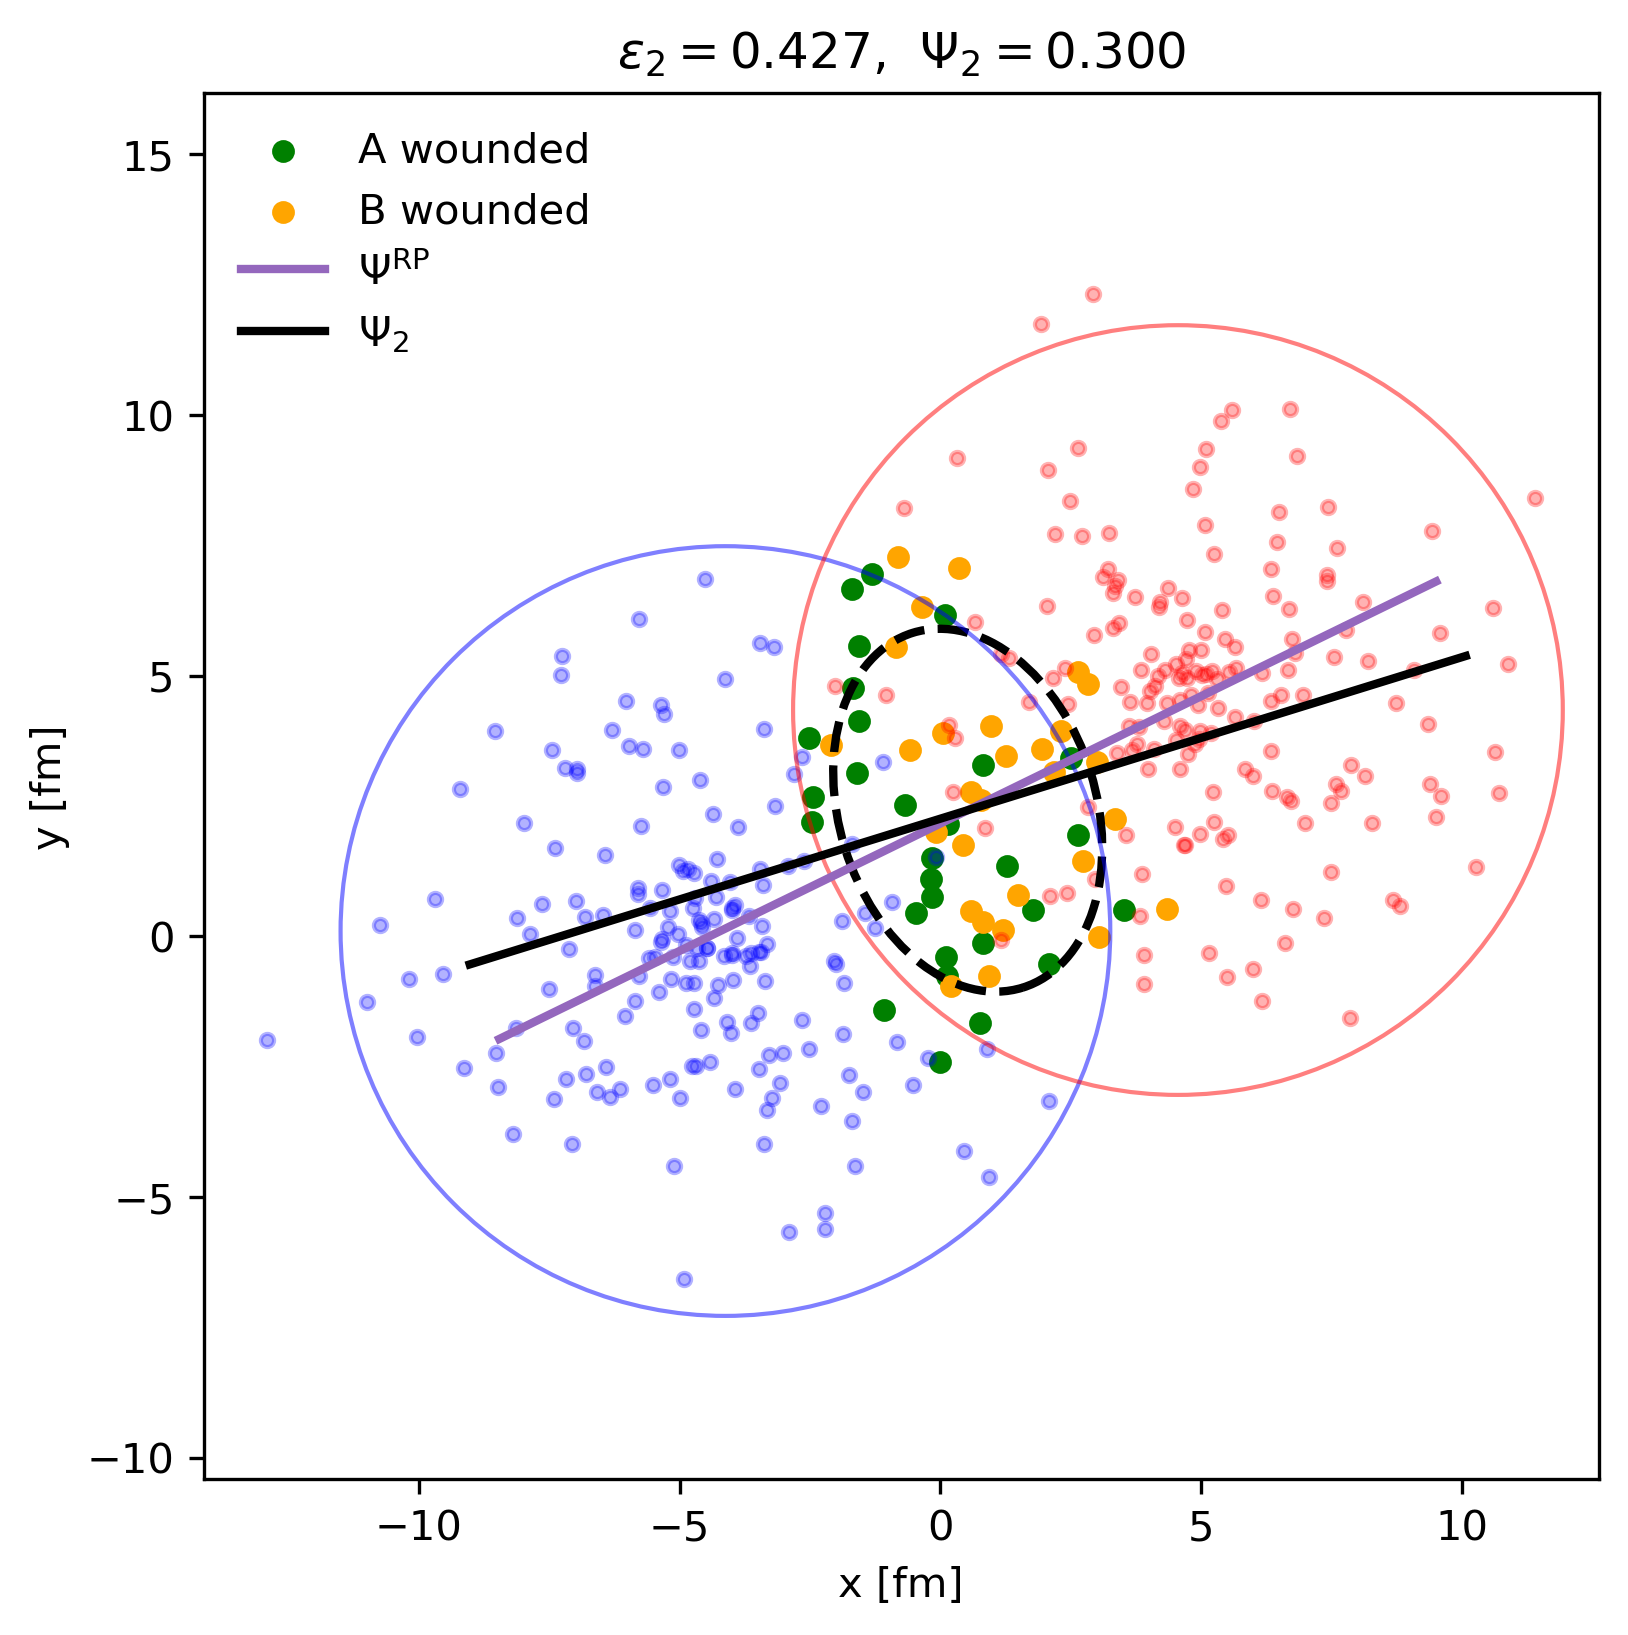
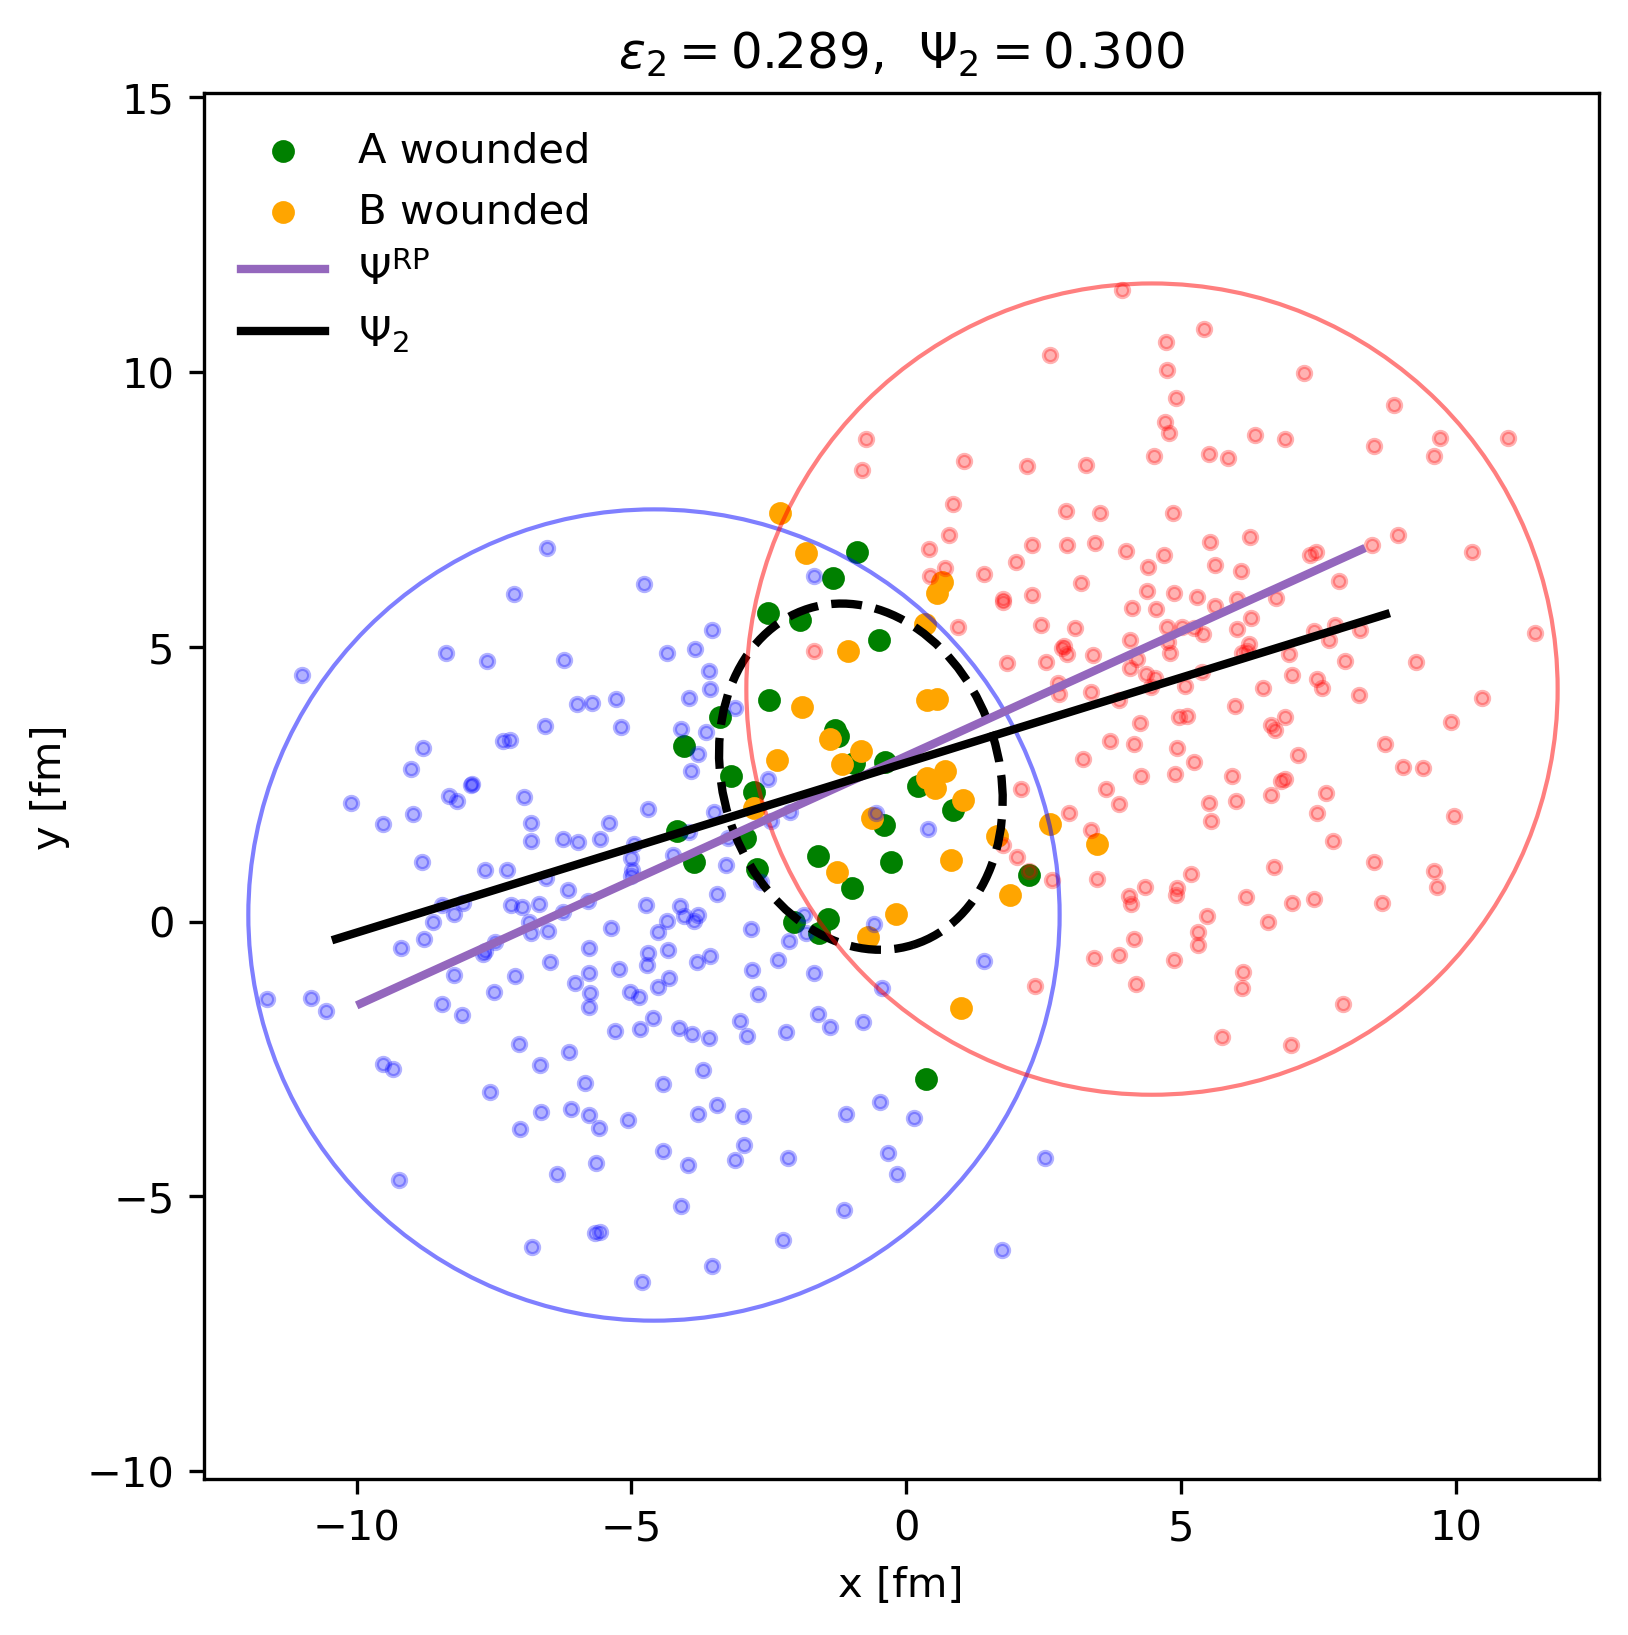
fortran module with f2py. RP/psi2 figure, add the main with fortran or python setting. Makefile for f2py

diff --git a/main.py b/main.py
@@ -1,0 +1,125 @@
+import sys
+
+import numpy as np
+import matplotlib.pyplot as plt
+
+from utils.glauber import sample_woods_saxon, find_collisions, Nuclei, calcPsi2Ecc2
+
+import argparse
+from dataclasses import dataclass, field
+
+
+def plot_res(par, cols, total_ecc2, total_psi2, total_ecc2_std, total_psi2_std):
+
+  f,axs = plt.subplots(1,2, figsize=(14,6))
+  
+  ax = axs[0]
+  ax.errorbar(par.b_array, np.mean(cols, axis=1), yerr=np.std(cols, axis=1), fmt='o-', capsize=5)
+  
+  ax.set_xlabel("Impact parameter b (fm)", fontsize=14)
+  ax.set_ylabel("Number of collisions", fontsize=14)
+  
+  
+  ax = axs[1]
+  
+  ax.errorbar(par.b_array, total_ecc2, yerr=total_ecc2_std, fmt='o-', label=r'Eccentricity $\epsilon_2$')
+  ax.errorbar(par.b_array, total_psi2, yerr=total_psi2_std, fmt='s-', label=r'Participant plane angle $\Psi_2$')
+  ax.set_xlabel("Impact parameter b (fm)", fontsize=14)
+  ax.set_ylabel("Eccentricity / Participant plane angle", fontsize=14)
+  ax.legend(fontsize=12)
+
+
+  plt.show()
+
+
+@dataclass
+class setup:
+  A: int = 206  # nucleon number
+  b_array: np.ndarray = np.arange(0,10,1)
+  b_array: np.ndarray = field(default_factory=lambda: np.arange(0, 10, 1))
+
+  n_events: int = 1
+  save_path: str = "glauber_results.npz"
+
+
+def main_fortran():
+  par = setup()
+
+
+  cols = []
+  total_psi2, total_ecc2 = [], []
+  total_psi2_std = []
+  total_ecc2_std = []
+  for b in par.b_array:
+    bcols = []
+    psi2, ecc2 = [], []
+    for _ in range(par.n_events):
+      sys.stdout.write(f"\r  Event {_+1}/{par.n_events} for b={b:.1f} fm")
+      sys.stdout.flush()
+      nuc1 = Nuclei(par.A)
+      nuc1.sample_fws()
+      nuc2 = Nuclei(par.A)
+      nuc2.sample_fws()
+      
+      nuc1[:,0]-=b/2
+      nuc2[:,0]+=b/2
+      wounded1, wounded2, bc = find_collisions(nuc1, nuc2)
+      bcols.append(np.count_nonzero(wounded1) + np.count_nonzero(wounded2))
+      psi, ecc = calcPsi2Ecc2(nuc1, nuc2, wounded1, wounded2)
+      psi2.append(psi)
+      ecc2.append(ecc)
+    cols.append(bcols)
+    total_psi2.append(np.mean(psi2))
+    total_ecc2.append(np.mean(ecc2))
+    total_psi2_std.append(np.std(psi2))
+    total_ecc2_std.append(np.std(ecc2))
+  
+  cols = np.array(cols)
+  plot_res(par, cols, total_ecc2, total_psi2, total_ecc2_std, total_psi2_std)
+ 
+
+
+def main_py():
+  par = setup()
+    
+  cols = []
+  total_psi2, total_ecc2 = [], []
+  total_psi2_std = []
+  total_ecc2_std = []
+  for b in par.b_array:
+    bcols = []
+    psi2, ecc2 = [], []
+    for _ in range(par.n_events):
+      sys.stdout.write(f"\r  Event {_+1}/{par.n_events} for b={b:.1f} fm")
+      sys.stdout.flush()
+      nuc1 = Nuclei(par.A)
+      nuc1.sample_ws()
+      nuc2 = Nuclei(par.A)
+      nuc2.sample_ws()
+      
+      nuc1[:,0]-=b/2
+      nuc2[:,0]+=b/2
+      wounded1, wounded2, bc = find_collisions(nuc1, nuc2)
+      bcols.append(np.count_nonzero(wounded1) + np.count_nonzero(wounded2))
+      psi, ecc = calcPsi2Ecc2(nuc1, nuc2, wounded1, wounded2)
+      psi2.append(psi)
+      ecc2.append(ecc)
+    cols.append(bcols)
+    total_psi2.append(np.mean(psi2))
+    total_ecc2.append(np.mean(ecc2))
+    total_psi2_std.append(np.std(psi2))
+    total_ecc2_std.append(np.std(ecc2))
+  
+  cols = np.array(cols)
+  plot_res(par, cols, total_ecc2, total_psi2, total_ecc2_std, total_psi2_std)
+  
+if __name__ == "__main__":
+  arg_parser = argparse.ArgumentParser()
+  arg_parser.add_argument('--v', help='run either python or fortran version', choices=['py', 'fortran'], default='py')
+
+  args = arg_parser.parse_args()
+  if args.v == 'py':
+    main_py()
+  elif args.v == 'fortran':
+    main_fortran()
+

diff --git a/utils/glauber.py b/utils/glauber.py
@@ -1,4 +1,5 @@
 import numpy as np
+from utils import fwoodsax
 
 
 def sample_woods_saxon(A, R, a, dmin, V0 = 1.0): # we assume V0 = 1
@@ -63,6 +64,12 @@ class Nuclei:
 
   def sample_ws(self):
     self.coords = sample_woods_saxon(self.A, self.R, self.a, self.dmin)
+    tmp = np.array(self.coords)
+
+  def sample_fws(self):
+    self.coords = np.zeros((self.A, 3), 'f', order='F')
+    #fwoodsax.sampler.woods_saxon(self.R, self.a, self.dmin, self.coords)
+    fwoodsax.sampler.woods_saxon(self.R, self.a, self.dmin, self.coords, self.A)
 
   def __getitem__(self, index):
     return self.coords[index]
@@ -80,13 +87,12 @@ class Nuclei:
 
 def calcPsi2Ecc2(nuc1, nuc2, wounded1, wounded2):
   # collect wounded nucleons from both nuclei
-  A = nuc1[wounded1][:, :2] # check this
+  A = nuc1[wounded1][:, :2] 
   B = nuc2[wounded2][:, :2]
   P = np.vstack([A, B])
   if P.shape[0] == 0:
     return 0.0, 0.0
 
-  # recentre
   x = P[:,0] - np.mean(P[:,0])
   y = P[:,1] - np.mean(P[:,1])
 
@@ -96,7 +102,7 @@ def calcPsi2Ecc2(nuc1, nuc2, wounded1, wounded2):
 
   cos2 = np.sum(w * np.cos(2*phi))
   sin2 = np.sum(w * np.sin(2*phi))
-  r2   = np.sum(w)
+  r2 = np.sum(w)
 
   if r2 == 0:
     return 0.0, 0.0
@@ -107,7 +113,8 @@ def calcPsi2Ecc2(nuc1, nuc2, wounded1, wounded2):
   return eps2, psi2
 
 
-
+if __name__ == "__main__":
+  print(fwoodsax.sampler.woods_saxon.__doc__)
 
 
 

diff --git a/collision_anim.py b/collision_anim.py
@@ -3,7 +3,7 @@ import matplotlib.pyplot as plt
 from matplotlib.animation import FuncAnimation
 from mpl_toolkits.mplot3d.art3d import Poly3DCollection
 
-from glauber import sample_woods_saxon, find_collisions, Nuclei, calcPsi2Ecc2
+from utils.glauber import sample_woods_saxon, find_collisions, Nuclei, calcPsi2Ecc2
 
 
 def draw_psi2_plane(ax, psi2, zmin=-25, zmax=25, r=15):

diff --git a/plot_collision_with_RP.py b/plot_collision_with_RP.py
@@ -14,9 +14,9 @@ def main():
   A=206 # nucleon number (
   b=9.0 # impact parameter (change to centrality at some point)
   nuc1 = Nuclei(A)
-  nuc1.sample_ws()
+  nuc1.sample_fws()
   nuc2 = Nuclei(A)
-  nuc2.sample_ws()
+  nuc2.sample_fws()
 
   #nuc1[:,1]+=b/4
   nuc2[:,1]+=b/2
